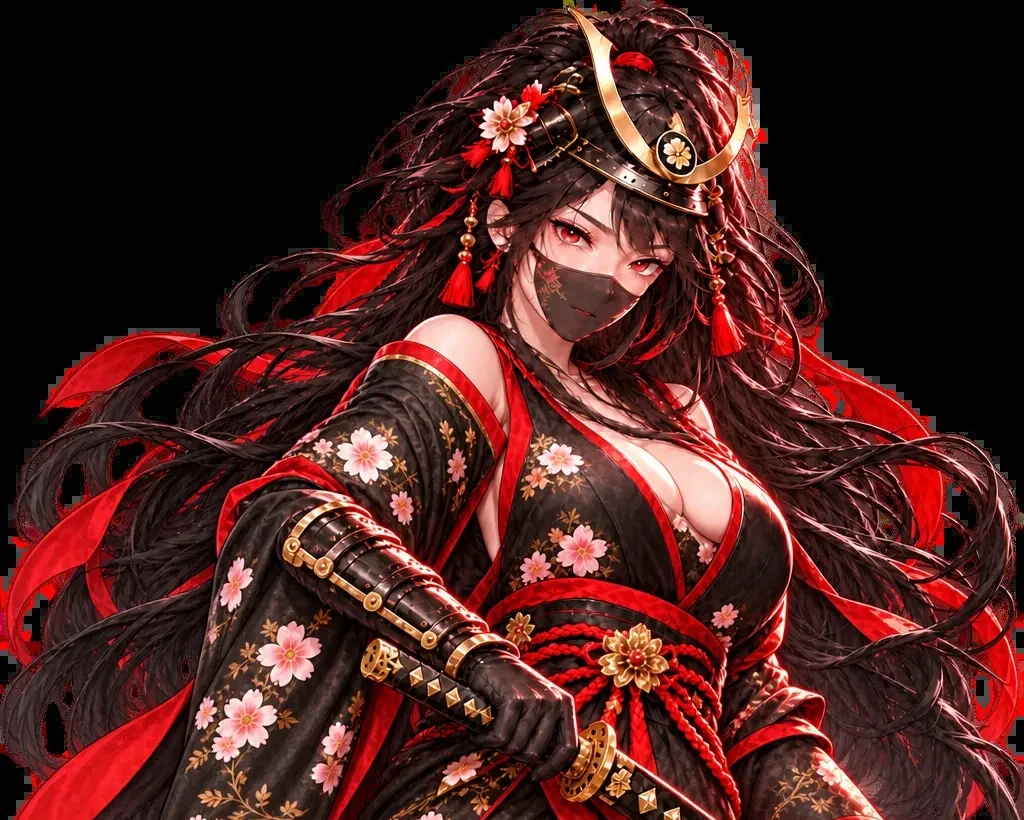
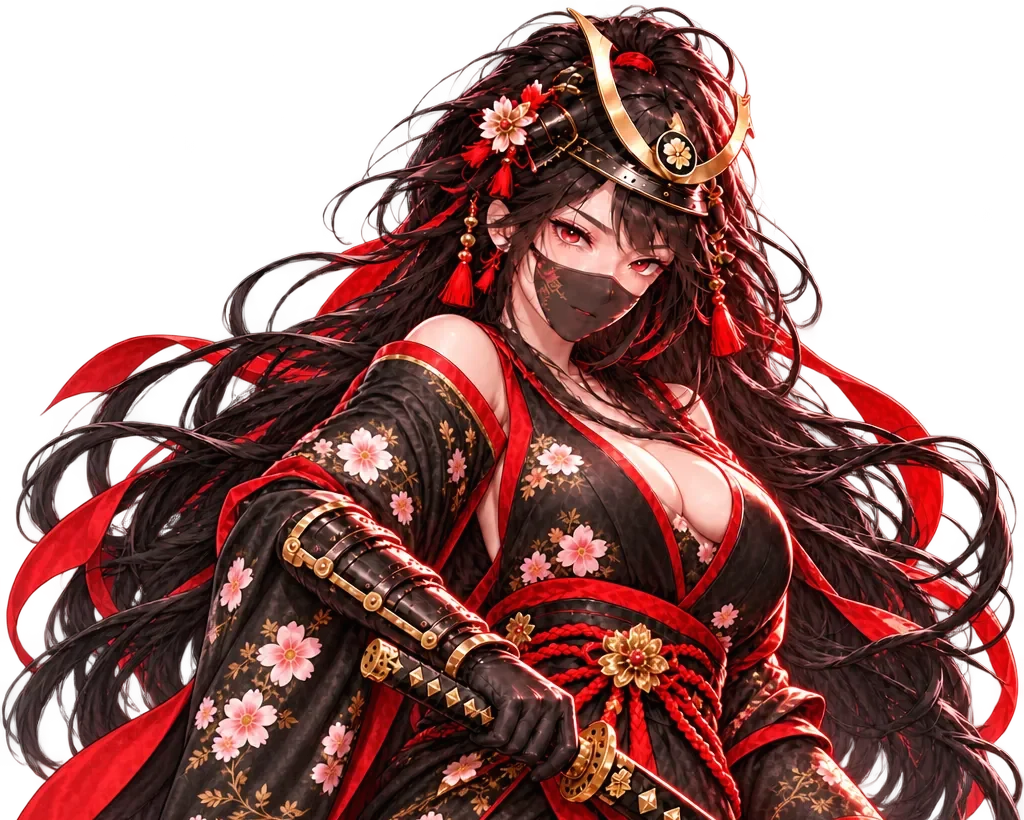
fix(orders): thank-you samurai keeps the owner's own transparency; payment-box art centres the face on desktop
The owner's file was already a transparent cut — the first re-encode lost its alpha channel (black box behind the figure).
Re-encoded from his file with alpha kept (top 820 px). The bank-box backdrop shifts its focus lower from sm up so the face
sits in the short, wide desktop box.

diff --git a/src/components/commerce/OrderStatusView.tsx b/src/components/commerce/OrderStatusView.tsx
@@ -210,9 +210,9 @@ export function OrderStatusView({
           <div className="okami-thanks relative overflow-hidden rounded-2xl border border-surface-border-soft bg-surface-1">
             {/* Owner 29/10 "หน้าหาย": a fixed 200/240 px band cropped the 716×400 picture to the kabuto and faded out the face.
                 The band now keeps the picture's own shape (face whole at every width) and fades only its last fifth. */}
-            {/* Owner 30/10: a new full-body samurai (his file, white background cut to transparent) replaces the head-and-moon
+            {/* Owner 30/10: a new full-body samurai (his own transparent cut) replaces the head-and-moon
                 picture — "ให้ใช้การ Fade out เหมือนหน้าสินค้าทั้งหมด": the figure fades out toward the text over its lower half,
-                the way the /products backdrop fades, instead of a fifth at the edge. The file is the top 820 px (head to hips). */}
+                the way the /products backdrop fades, instead of a fifth at the edge. The file is the top 820 px of his transparent cut (head to hips). */}
             <div ref={bandRef} className="relative aspect-[1024/760] w-full">
               <Image
                 src="/brand/samurai-thanks-full.webp"
@@ -429,7 +429,7 @@ export function OrderStatusView({
                       alt=""
                       fill
                       sizes="(min-width: 640px) 346px, 60vw"
-                      className="object-cover object-[50%_20%] opacity-70 mix-blend-screen brightness-[.55] contrast-150 grayscale [mask-image:linear-gradient(to_right,transparent,black_55%)]"
+                      className="object-cover object-[50%_20%] sm:object-[50%_26%] opacity-70 mix-blend-screen brightness-[.55] contrast-150 grayscale [mask-image:linear-gradient(to_right,transparent,black_55%)]"
                     />
                   </div>
                   <dl className="grid grid-cols-[auto_1fr] gap-x-4 gap-y-1.5 p-3 text-sm">
